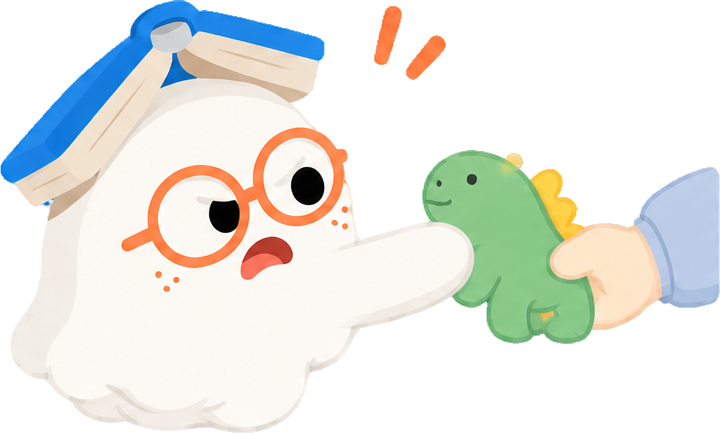
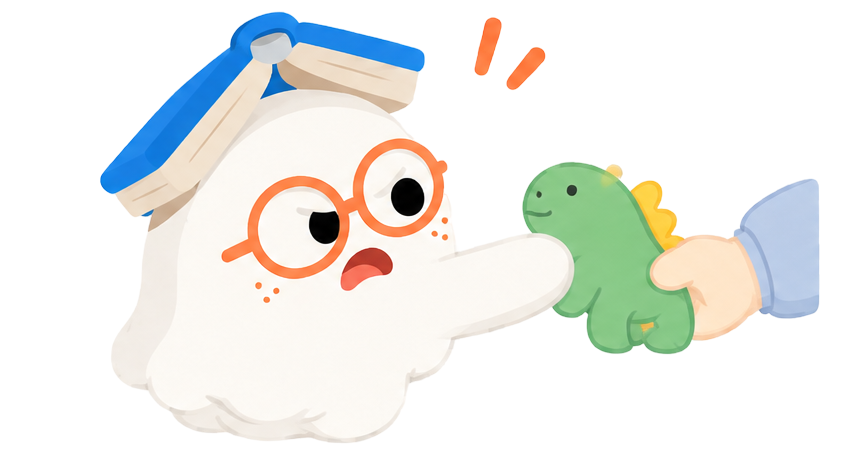
feat: 홈 '친구 관계' 카드의 문구와 그림을 새 디자인으로 변경
제목을 '친구가 장난감을 빼앗았어요'로 바꾸고 새 그림을 넣었어요. 부모들의 이야기 목록의 같은 카드도 함께 바뀌어요. (Figma 1549:5066)

diff --git a/src/features/home/scenarios.jsx b/src/features/home/scenarios.jsx
@@ -5,7 +5,7 @@ import scenarioHabit from '../../assets/images/home/mascot-corner.png';
 
 // 홈의 추천 카드와 '부모들의 이야기' 목록이 함께 쓰는 시나리오 목록이에요.
 export const scenarios = [
-  { id: 'friend', category: '친구 관계', accessibleTitle: '친구가 장난감을 빼앗았을 때', title: <>친구가 장난감을<br />빼앗았을 때</>, description: '아이에게 어떻게 말해줘야 할까요?', image: scenarioFriend, color: 'friend', accentColor: '#ff7c68' },
+  { id: 'friend', category: '친구 관계', accessibleTitle: '친구가 장난감을 빼앗았어요', title: <>친구가 장난감을<br />빼앗았어요</>, description: '아이에게 어떻게 말해줘야 할까요?', image: scenarioFriend, color: 'friend', accentColor: '#ff7c68' },
   { id: 'emotion', category: '감정 표현', accessibleTitle: '속상해도 아무 말 하지 않을 때', title: <>속상해도 아무 말<br />하지 않을 때</>, description: '아이의 마음을 어떻게 물어볼까요?', image: scenarioEmotion, color: 'emotion', accentColor: '#65d0a5' },
   { id: 'kindergarten', category: '새로운 환경', accessibleTitle: '유치원에 가기 싫다고 할 때', title: <>유치원에 가기<br />싫다고 할 때</>, description: '어떤 말로 안심시켜 줄까요?', image: scenarioKindergarten, color: 'kindergarten', accentColor: '#ffcf55' },
   { id: 'habit', category: '생활 습관', accessibleTitle: '실수하고 자꾸 숨기려고 할 때', title: <>실수하고 자꾸<br />숨기려고 할 때</>, description: '어떤 말로 안심시켜 줄까요?', image: scenarioHabit, color: 'habit', accentColor: '#9e95ff' },

diff --git a/src/pages/DashboardPage/DashboardPage.module.css b/src/pages/DashboardPage/DashboardPage.module.css
@@ -232,10 +232,10 @@
 }
 
 .friend .cardImage {
-  bottom: 13px;
-  left: 33.4px;
-  width: 185.8px;
-  height: 111px;
+  bottom: 12.4px;
+  left: 20.1px;
+  width: 210.8px;
+  height: 114.7px;
 }
 
 .emotion .cardImage {
@@ -344,10 +344,10 @@
   }
 
   .friend .cardImage {
-    bottom: clamp(11px, 1.5vh, 13px);
-    left: clamp(27px, 3.85vh, 33.4px);
-    width: clamp(152px, 21.36vh, 185.8px);
-    height: clamp(91px, 12.76vh, 111px);
+    bottom: clamp(10.5px, 1.43vh, 12.4px);
+    left: clamp(16.3px, 2.32vh, 20.1px);
+    width: clamp(172.5px, 24.24vh, 210.8px);
+    height: clamp(94px, 13.19vh, 114.7px);
   }
 
   .emotion .cardImage {
@@ -462,10 +462,10 @@
   }
 
   .friend .cardImage {
-    bottom: 12px;
-    left: 30.7px;
-    width: 171px;
-    height: 102px;
+    bottom: 11.4px;
+    left: 18.5px;
+    width: 194px;
+    height: 105.4px;
   }
 
   .emotion .cardImage {

diff --git a/src/pages/ScenarioListPage/ScenarioListPage.module.css b/src/pages/ScenarioListPage/ScenarioListPage.module.css
@@ -226,10 +226,10 @@
 }
 
 .friend .cardImage {
-  bottom: calc(13 * var(--u));
-  left: calc(33.4 * var(--u));
-  width: calc(185.8 * var(--u));
-  height: calc(111 * var(--u));
+  bottom: calc(12.4 * var(--u));
+  left: calc(20.1 * var(--u));
+  width: calc(210.8 * var(--u));
+  height: calc(114.7 * var(--u));
 }
 
 .emotion .cardImage {
